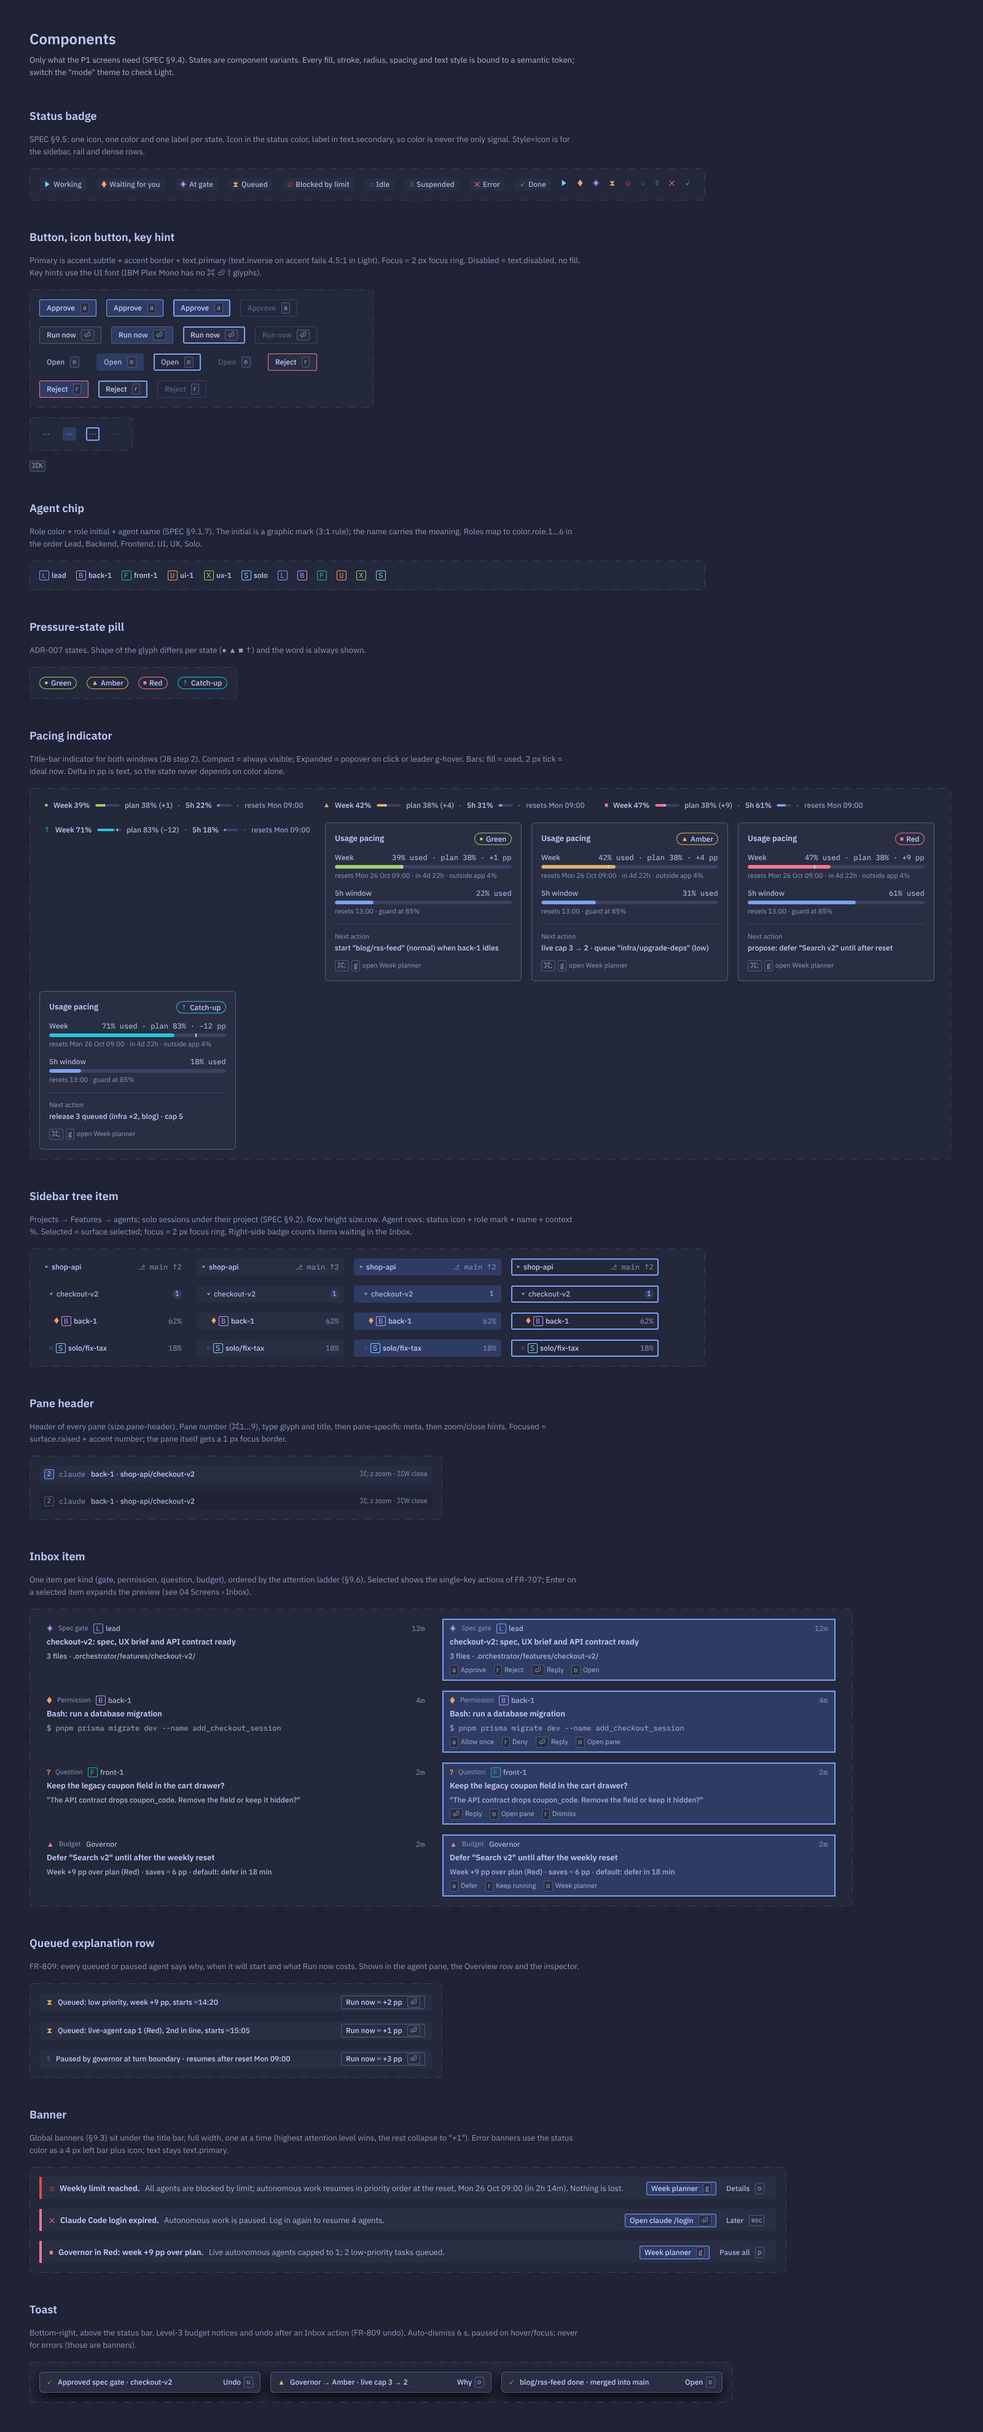
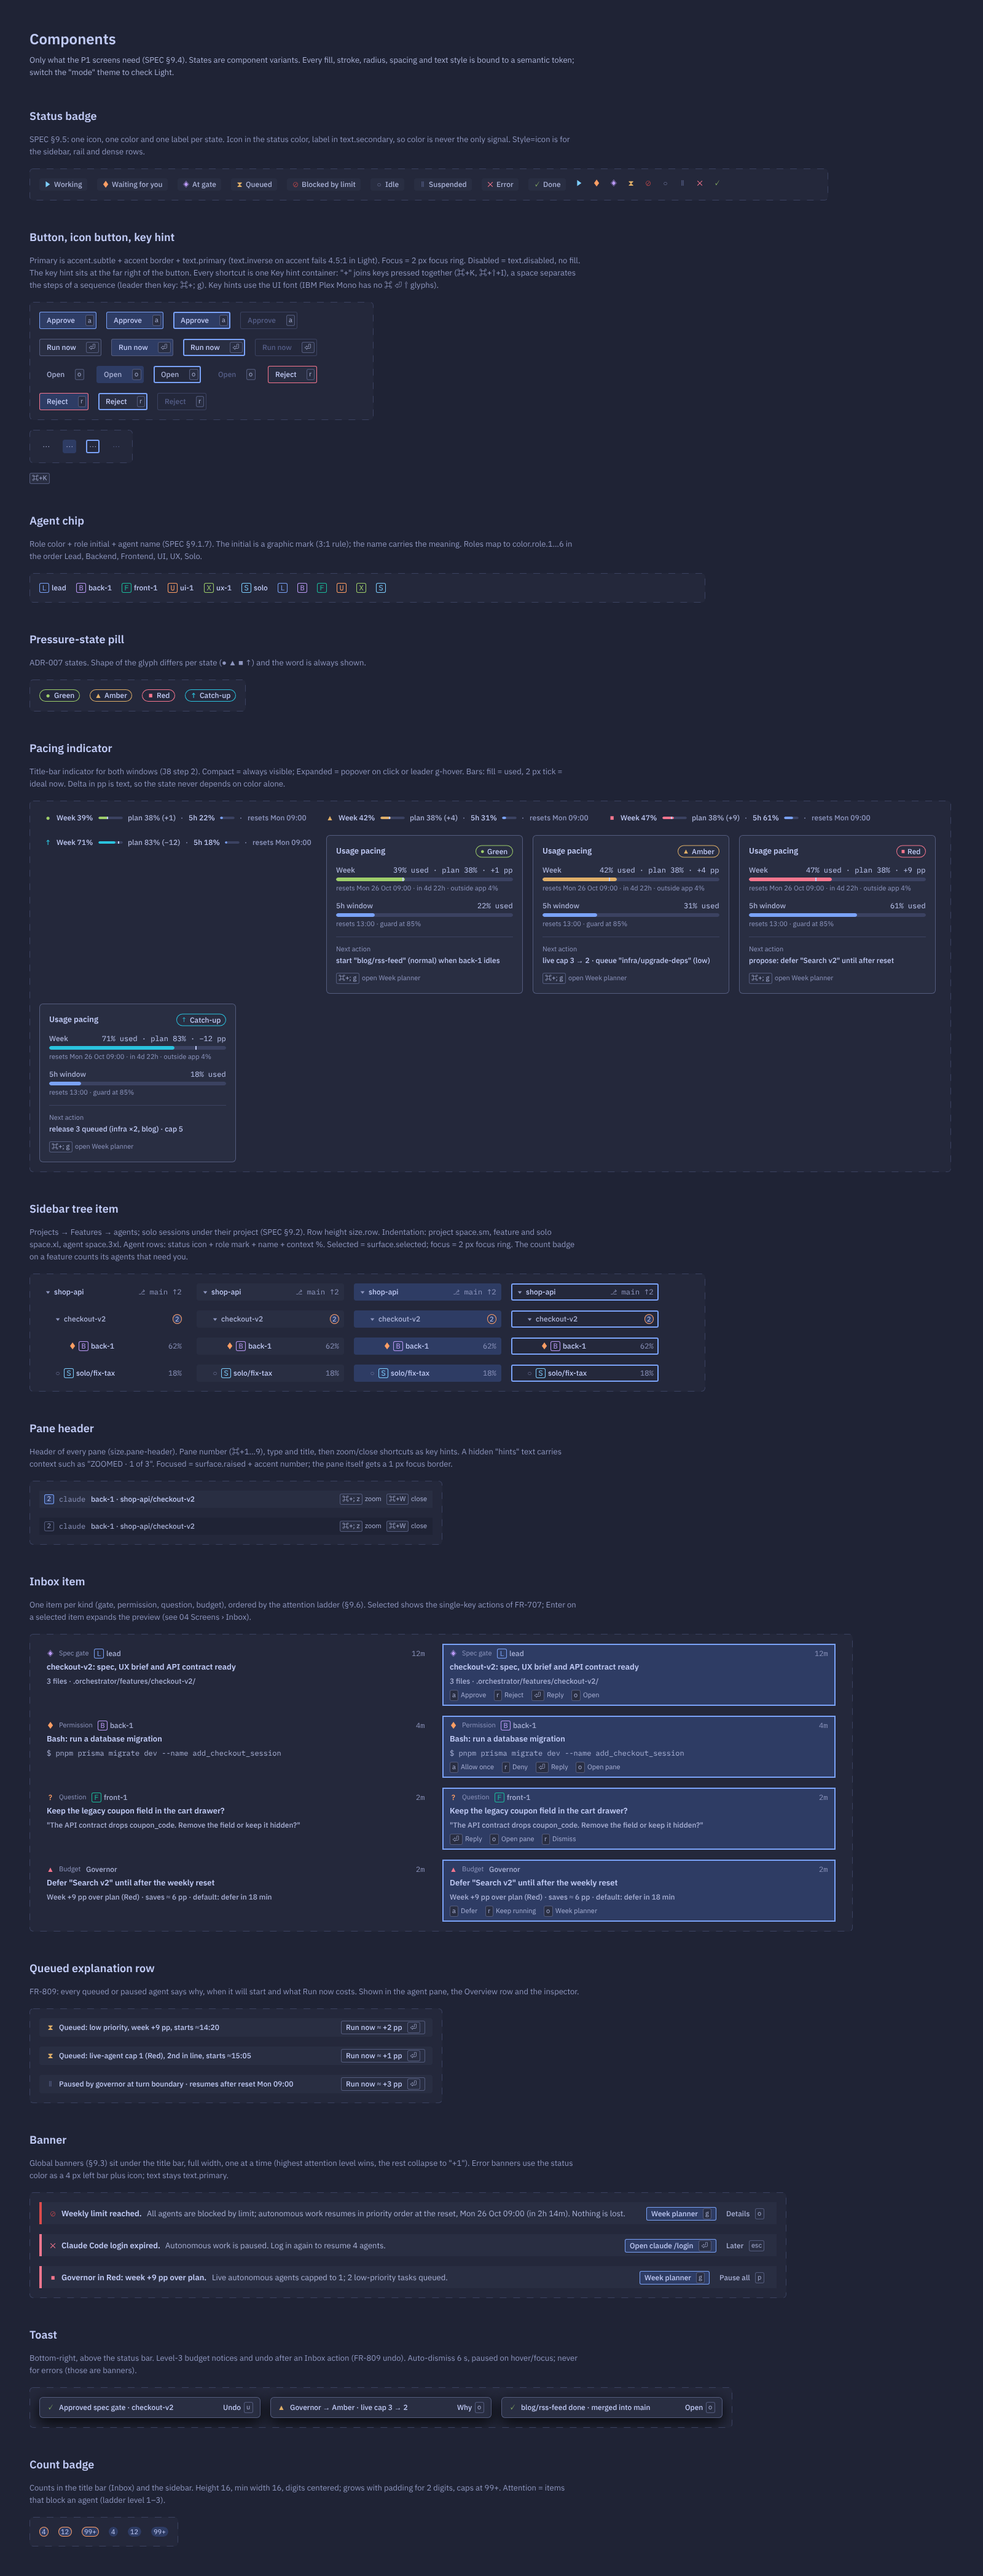
docs(design): fix Penpot review comments 1–11
Centered glyphs and role letters, one key-hint container per shortcut
with + separators, key hint at the far right of buttons, deeper tree
indentation, Count badge component, drawn search icon, icon rail count
badge + hover summary, 1280 layout without a hidden pane, unclipped
focus-ring example. Exports refreshed; Cover v0.3.

diff --git a/docs/design/p1-design-notes.md b/docs/design/p1-design-notes.md
@@ -23,6 +23,24 @@ Design pass on 2026-10-20 for the P1 gate (ADR-008, SPEC §9.0). Penpot file **O
   - **Inbox**: attention-ladder order with one gate expanded, a who/what/why preview, the rendered spec and the actions.
 - **Tokens**: no token changes. `tokens.json` is unchanged.
 
+## Review round 1 (Penpot comments 1–11), fixed
+
+- Glyphs in pills and role letters are centered (fixed-size text boxes, centered both ways).
+- **Shortcut convention:**
+  - Every shortcut is one Key hint container.
+  - "+" joins keys pressed together (⌘+K, ⌘+⇧+I).
+  - A space separates the steps of a sequence (leader then key: ⌘+; g).
+  - Pane headers, the status bar leader hint and the Agent pane strip now use key hints.
+  - The key hint sits at the far right of buttons.
+- **Sidebar tree:** indentation is now project 8 / feature and solo 24 / agent 48 (space.sm / xl / 3xl).
+- **Count badge:** new component (height 16, about 16 min width, caps at 99+), used for the Inbox count and the feature rows.
+- **Search icon:** drawn magnifier instead of the ⌕ glyph.
+- **Icon rail:** the per-agent status glyphs are gone; it shows a count badge when agents need you, and hover opens a project summary popover (board "Rail hover · 1280").
+- **1280 layout:** no pane hidden behind the overlay inspector.
+- **Foundations:** the focus-ring example is no longer clipped.
+
+SPEC §9.7 should adopt the shortcut notation above (proposal; not edited).
+
 ## Open questions for Guillaume
 
 1. **Primary button style.** `text.inverse` on `accent.default` is 2.7:1 in Light, so primary buttons use `accent.subtle` fill + accent border + `text.primary`. OK, or should the Light accent be darkened so a filled primary works?

diff --git a/docs/design/README.md b/docs/design/README.md
@@ -8,7 +8,7 @@ The UI source of truth is the Penpot file **Orchestrator** on design.penpot.app 
 |---|---|---|
 | 00 Cover | Purpose, page index, P1 gate, changelog | Done |
 | 01 Foundations | Tokens: color, type, spacing, radius, sizing, elevation, rules | In review |
-| 02 Components | P1 subset of SPEC §9.4 (13 component sets), states as variants | In review (P1 subset) |
+| 02 Components | P1 subset of SPEC §9.4 (14 component sets), states as variants | In review (P1 subset) |
 | 03 Shell & layouts | Shell at 1512 (docked inspector), 1280 (icon rail + overlay inspector), zoomed pane; 1728 not drawn | In review |
 | 04 Screens | P1 panes: Overview, Agent pane (+ states), Week planner, Inbox | In review (P1 panes) |
 | 05 Keyboard & copy | Shortcut map (§9.7) with conflicts; notification and banner copy | Not started |
@@ -27,6 +27,7 @@ Exports of the Penpot boards (Dark theme unless noted), refreshed by hand:
 | 03 Shell · 1512 | [03-shell-1512.png](img/03-shell-1512.png) |
 | 03 Shell · 1280 | [03-shell-1280.png](img/03-shell-1280.png) |
 | 03 Shell · zoomed pane | [03-shell-zoomed.png](img/03-shell-zoomed.png) |
+| 03 Icon rail hover · 1280 | [03-rail-hover.png](img/03-rail-hover.png) |
 | 04 Overview | [04-overview.png](img/04-overview.png) |
 | 04 Agent pane | [04-agent-pane.png](img/04-agent-pane.png) · states: [04-agent-pane-states.png](img/04-agent-pane-states.png) |
 | 04 Week planner | [04-week-planner.png](img/04-week-planner.png) |
